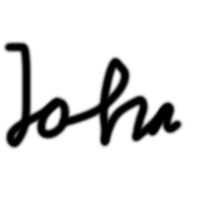
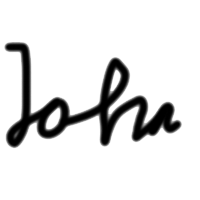
Added codes to remove noise and added more signatures

diff --git a/test.py b/test.py
@@ -1,22 +1,39 @@
+"""
+VSignIt
+A secure Signing Method
+
+Developed by: Erwin Leonardy
+
+"""
+
 from __future__ import print_function
 from PIL import Image
+import PIL.ImageOps
 
-path = "./input/john.png"
+import random
+import sys
+
+# Try different inputs here
+path = "jane.jpg"
+#  path = "jane.jpg"
 
 # Open an Image
-def open_image(path):
+def open_image(filename):
+    path = './input/' + filename
     image = Image.open(path)
-    print(image.format, image.size, image.mode)
+    image = image.convert('1') # convert image to black and white
+    
+    print("(Image Info)")
+    print("Image format: {} \t Image size: {} \t\t Image mode: {}".format(image.format, image.size, image.mode))
+    print("\nSystem Log:")
+    
     return image
 
 # Save Image
-def save_image(image, path):
-    image.save(path, 'png')
-
-# Create a new image with the given size
-def create_image(i, j):
-    image = Image.new("RGB", (i, j), "white")
-    return image
+def save_image(image, filename):
+    path = './output/' + filename + '.png'
+    print ("{} has been successfully exported!".format(path))
+    image.save(path)
 
 # Get the pixel from the given image
 def get_pixel(image, i, j):
@@ -28,12 +45,238 @@ def get_pixel(image, i, j):
     # Get Pixel
     pixel = image.getpixel((i, j))
     return pixel
+ 
+# Generate 2 shares
+def gen_2shares (image):
+    outfile1 = Image.new("1", [dimension * 2 for dimension in image.size])
+    outfile2 = Image.new("1", [dimension * 2 for dimension in image.size])
 
-# Show image
-def show_image (image):
-    image.show()
+    # horizontal axis
+    for x in range(0, image.size[0], 2):
+        # vertical axis
+        for y in range(0, image.size[1], 2):
+            # checks if it is black / white
+            sourcepixel = image.getpixel((x, y))
+            assert sourcepixel in (0, 255)  # prints error if assert fails
+            coinflip = random.random()
+           
+            # if it is black
+            if sourcepixel == 0:
+                # pick a complimentary pair
+                # i.e.
+                # X O   O X
+                # O X   X O
+                if coinflip < 1/6: 
+                    outfile1.putpixel((x * 2, y * 2), 0)
+                    outfile1.putpixel((x * 2 + 1, y * 2), 0)
+                    outfile1.putpixel((x * 2, y * 2 + 1), 255)
+                    outfile1.putpixel((x * 2 + 1, y * 2 + 1), 255)
+
+                    outfile2.putpixel((x * 2, y * 2), 255)
+                    outfile2.putpixel((x * 2 + 1, y * 2), 255)
+                    outfile2.putpixel((x * 2, y * 2 + 1), 0)
+                    outfile2.putpixel((x * 2 + 1, y * 2 + 1), 0)
+                
+                elif coinflip < 2/6: 
+                    outfile1.putpixel((x * 2, y * 2), 255)
+                    outfile1.putpixel((x * 2 + 1, y * 2), 255)
+                    outfile1.putpixel((x * 2, y * 2 + 1), 0)
+                    outfile1.putpixel((x * 2 + 1, y * 2 + 1), 0)
+
+                    outfile2.putpixel((x * 2, y * 2), 0)
+                    outfile2.putpixel((x * 2 + 1, y * 2), 0)
+                    outfile2.putpixel((x * 2, y * 2 + 1), 255)
+                    outfile2.putpixel((x * 2 + 1, y * 2 + 1), 255)
+
+                elif coinflip < 3/6:
+                    outfile1.putpixel((x * 2, y * 2), 0)
+                    outfile1.putpixel((x * 2 + 1, y * 2), 255)
+                    outfile1.putpixel((x * 2, y * 2 + 1), 255)
+                    outfile1.putpixel((x * 2 + 1, y * 2 + 1), 0)
+
+                    outfile2.putpixel((x * 2, y * 2), 255)
+                    outfile2.putpixel((x * 2 + 1, y * 2), 0)
+                    outfile2.putpixel((x * 2, y * 2 + 1), 0)
+                    outfile2.putpixel((x * 2 + 1, y * 2 + 1), 255)
+               
+                elif coinflip < 4/6:
+                    outfile1.putpixel((x * 2, y * 2), 255)
+                    outfile1.putpixel((x * 2 + 1, y * 2), 0)
+                    outfile1.putpixel((x * 2, y * 2 + 1), 0)
+                    outfile1.putpixel((x * 2 + 1, y * 2 + 1), 255)
+
+                    outfile2.putpixel((x * 2, y * 2), 0)
+                    outfile2.putpixel((x * 2 + 1, y * 2), 255)
+                    outfile2.putpixel((x * 2, y * 2 + 1), 255)
+                    outfile2.putpixel((x * 2 + 1, y * 2 + 1), 0)
+                    
+                elif coinflip < 5/6:
+                    outfile1.putpixel((x * 2, y * 2), 255)
+                    outfile1.putpixel((x * 2 + 1, y * 2), 0)
+                    outfile1.putpixel((x * 2, y * 2 + 1), 255)
+                    outfile1.putpixel((x * 2 + 1, y * 2 + 1), 0)
+
+                    outfile2.putpixel((x * 2, y * 2), 0)
+                    outfile2.putpixel((x * 2 + 1, y * 2), 255)
+                    outfile2.putpixel((x * 2, y * 2 + 1), 0)
+                    outfile2.putpixel((x * 2 + 1, y * 2 + 1), 255)
+
+                else:
+                    outfile1.putpixel((x * 2, y * 2), 0)
+                    outfile1.putpixel((x * 2 + 1, y * 2), 255)
+                    outfile1.putpixel((x * 2, y * 2 + 1), 255)
+                    outfile1.putpixel((x * 2 + 1, y * 2 + 1), 0)
+
+                    outfile2.putpixel((x * 2, y * 2), 255)
+                    outfile2.putpixel((x * 2 + 1, y * 2), 0)
+                    outfile2.putpixel((x * 2, y * 2 + 1), 0)
+                    outfile2.putpixel((x * 2 + 1, y * 2 + 1), 255)
+            
+            # if it is white
+            elif sourcepixel == 255:
+                # pick the same pairs
+                # i.e.
+                # X O   X O
+                # O X   O X
+                if coinflip < 1/6: 
+                    outfile1.putpixel((x * 2, y * 2), 0)
+                    outfile1.putpixel((x * 2 + 1, y * 2), 0)
+                    outfile1.putpixel((x * 2, y * 2 + 1), 255)
+                    outfile1.putpixel((x * 2 + 1, y * 2 + 1), 255)
+
+                    outfile2.putpixel((x * 2, y * 2), 0)
+                    outfile2.putpixel((x * 2 + 1, y * 2), 0)
+                    outfile2.putpixel((x * 2, y * 2 + 1), 255)
+                    outfile2.putpixel((x * 2 + 1, y * 2 + 1), 255)
+                
+                elif coinflip < 2/6: 
+                    outfile1.putpixel((x * 2, y * 2), 255)
+                    outfile1.putpixel((x * 2 + 1, y * 2), 255)
+                    outfile1.putpixel((x * 2, y * 2 + 1), 0)
+                    outfile1.putpixel((x * 2 + 1, y * 2 + 1), 0)
+
+                    outfile2.putpixel((x * 2, y * 2), 255)
+                    outfile2.putpixel((x * 2 + 1, y * 2), 255)
+                    outfile2.putpixel((x * 2, y * 2 + 1), 0)
+                    outfile2.putpixel((x * 2 + 1, y * 2 + 1), 0)
+
+                elif coinflip < 3/6:
+                    outfile1.putpixel((x * 2, y * 2), 0)
+                    outfile1.putpixel((x * 2 + 1, y * 2), 255)
+                    outfile1.putpixel((x * 2, y * 2 + 1), 255)
+                    outfile1.putpixel((x * 2 + 1, y * 2 + 1), 0)
+
+                    outfile2.putpixel((x * 2, y * 2), 0)
+                    outfile2.putpixel((x * 2 + 1, y * 2), 255)
+                    outfile2.putpixel((x * 2, y * 2 + 1), 255)
+                    outfile2.putpixel((x * 2 + 1, y * 2 + 1), 0)
+               
+                elif coinflip < 4/6:
+                    outfile1.putpixel((x * 2, y * 2), 255)
+                    outfile1.putpixel((x * 2 + 1, y * 2), 0)
+                    outfile1.putpixel((x * 2, y * 2 + 1), 0)
+                    outfile1.putpixel((x * 2 + 1, y * 2 + 1), 255)
+
+                    outfile2.putpixel((x * 2, y * 2), 255)
+                    outfile2.putpixel((x * 2 + 1, y * 2), 0)
+                    outfile2.putpixel((x * 2, y * 2 + 1), 0)
+                    outfile2.putpixel((x * 2 + 1, y * 2 + 1), 255)
+                    
+                elif coinflip < 5/6:
+                    outfile1.putpixel((x * 2, y * 2), 255)
+                    outfile1.putpixel((x * 2 + 1, y * 2), 0)
+                    outfile1.putpixel((x * 2, y * 2 + 1), 255)
+                    outfile1.putpixel((x * 2 + 1, y * 2 + 1), 0)
+
+                    outfile2.putpixel((x * 2, y * 2), 255)
+                    outfile2.putpixel((x * 2 + 1, y * 2), 0)
+                    outfile2.putpixel((x * 2, y * 2 + 1), 255)
+                    outfile2.putpixel((x * 2 + 1, y * 2 + 1), 0)
+
+                else:
+                    outfile1.putpixel((x * 2, y * 2), 0)
+                    outfile1.putpixel((x * 2 + 1, y * 2), 255)
+                    outfile1.putpixel((x * 2, y * 2 + 1), 255)
+                    outfile1.putpixel((x * 2 + 1, y * 2 + 1), 0)
+
+                    outfile2.putpixel((x * 2, y * 2), 0)
+                    outfile2.putpixel((x * 2 + 1, y * 2), 255)
+                    outfile2.putpixel((x * 2, y * 2 + 1), 255)
+                    outfile2.putpixel((x * 2 + 1, y * 2 + 1), 0)
+                
+    save_image (outfile1, "out1")
+    save_image (outfile2, "out2")
+
+# Reconstruct the image using two of the shares
+def merge_2shares ():
+    file1 = ('./output/out1.png')
+    file2 = ('./output/out2.png')
+
+    infile1 = Image.open(file1)
+    infile2 = Image.open(file2)
+
+    outfile = Image.new('1', infile1.size)
+
+    for x in range(infile1.size[0]):
+        for y in range(infile1.size[1]):
+            outfile.putpixel((x,y), min(infile1.getpixel((x, y)), infile2.getpixel((x, y))))
+
+    save_image (outfile, "recon")
+
+    # clean the reconstructed shares
+    clean_2shares (outfile)
+
+# Resize the reconstructed image 
+# and clean the noise
+def clean_2shares (inputImg):
+    outfile = Image.new("1", [int(dimension / 2) for dimension in inputImg.size], 255)
+    length = inputImg.size[0]
+    width = inputImg.size[1]
+
+    # Cleaning (Phase 1)
+    # only writes black iff
+    # the (2x2) block is black
+    # i.e.
+    # B B
+    # B B
+    for yIn, yOut in zip(range(0,width,2), range(width)):
+        for xIn, xOut in zip(range(0,length,2), range(length)):
+            if (inputImg.getpixel((xIn, yIn)) != 255 and
+                inputImg.getpixel((xIn + 1, yIn)) != 255 and
+                inputImg.getpixel((xIn, yIn + 1)) != 255 and
+                inputImg.getpixel((xIn + 1, yIn + 1)) != 255):
+                outfile.putpixel((xOut, yOut), 0)
+
+    save_image (outfile, "clean1")
+ 
+    # Cleaning (Phase 2)
+    # only writes black iff
+    # the block has following pattern
+    # i.e.
+    # W B  =>  W W
+    # B B      W W
+    result = outfile
+    for y in range (0,result.size[0] - 2, 2):
+        for x in range (0, result.size[1] - 2, 2):
+            if (outfile.getpixel((x,y)) == 255 and
+                outfile.getpixel((x + 1, y)) == 0 and
+                outfile.getpixel((x, y + 1)) == 0 and
+                outfile.getpixel((x + 1, y + 1)) == 0):
+                result.putpixel((x + 1, y), 255)
+                result.putpixel((x, y + 1), 255)
+                result.putpixel((x + 1, y + 1), 255)
     
+    save_image (outfile, "clean2")
+
 """
 Main function
 """
+# open the image
 img = open_image (path)
+
+# generate 2 shares
+gen_2shares (img)
+
+# generate the output file
+outfile = merge_2shares()
+
